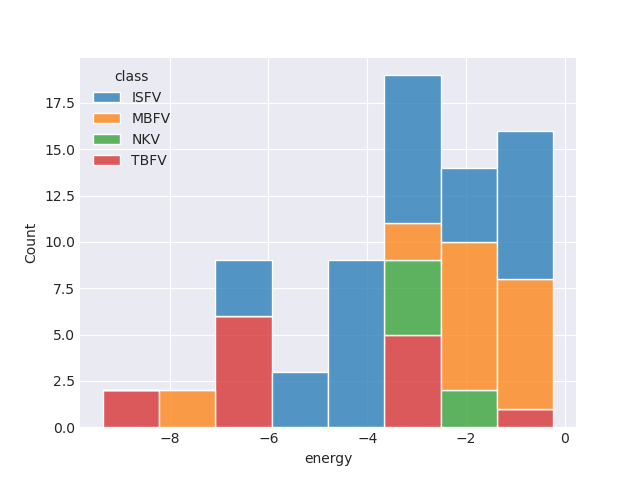
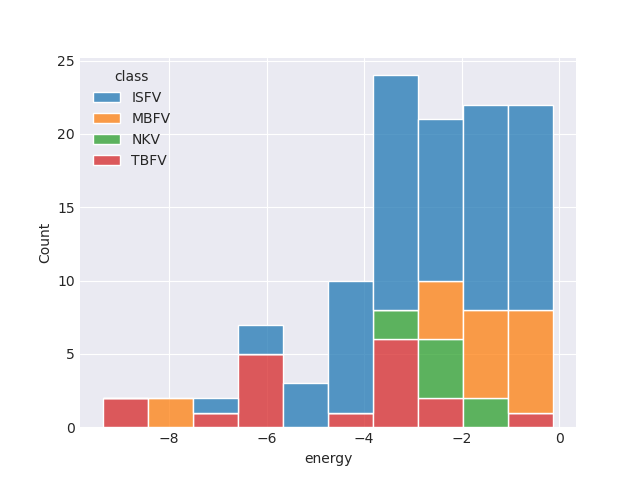
Multiple Subopts

diff --git a/Codes/evaluation.py b/Codes/evaluation.py
@@ -31,13 +31,15 @@ def draw_lineplots(df, extra_bases_roi, output):
         line3sub = []
         for suboptt in ast.literal_eval(row["suboptts"]): ## Subopt stuff..
             if suboptt:
-                line5sub.append(((suboptt[0][0], index),
-                              (suboptt[0][1], index))) ## orange?
+                for subopt in suboptt:
+                    line5sub.append(((subopt[0], index),
+                              (subopt[1], index))) ## orange?
         subopt_len5 = len(line5sub)
         for suboptq in ast.literal_eval(row["suboptqs"]): ## Subopt stuff..
             if suboptq:
-                line3sub.append(((suboptq[0][0], index),
-                              (suboptq[0][1], index))) ## orange?
+                for subopt in suboptq:
+                    line3sub.append(((subopt[0], index),
+                                     (subopt[1], index))) ## orange?
         subopt_len3 = len(line3sub)
         line5 = [((0, index), (extra_bases_roi, index)), ## grey
                  ((0, index), (-row["UTR5len"], index))] ## blue
@@ -50,9 +52,10 @@ def draw_lineplots(df, extra_bases_roi, output):
         line3 += [((q_tuple[0], index),
                  (q_tuple[1], index))] ## red
         CDS_colors = {"ISFV":"lime","MBFV":"b","NKV":"g","TBFV":"m"}
-        colors = [CDS_colors[row["class"]], "c"] + ["orange"]*subopt_len3 + ["r"]
-        side5.add_collection(LineCollection(line5, colors=colors, linewidths=(2,)))
-        side3.add_collection(LineCollection(line3, colors=colors, linewidths=(2,)))
+        colors5 = [CDS_colors[row["class"]], "c"] + ["orange"]*subopt_len5 + ["r"]
+        colors3 = [CDS_colors[row["class"]], "c"] + ["orange"]*subopt_len3 + ["r"]
+        side5.add_collection(LineCollection(line5, colors=colors5, linewidths=(2,)))
+        side3.add_collection(LineCollection(line3, colors=colors3, linewidths=(2,)))
     side5.set_xlabel("Distance from 5'UTR-CDS transition")
     side3.set_xlabel("Distance from CDS-3'UTR transition")
     side5.set_ylabel("Index")

diff --git a/main.py b/main.py
@@ -17,7 +17,7 @@ line_plot = "Results/interaction_lineplot.png"
 ## Static Parameters
 extra_bases = 200
 extra_bases_roi = 100
-outNumber = 2 # Allow n-1 subops, must be at least 1
+outNumber = 4 # Allow n-1 subops, must be at least 1
 
 ## IntaRNA specific:
 static_d = {"energyVRNA": "Data/rna_andronescu2007.par",
